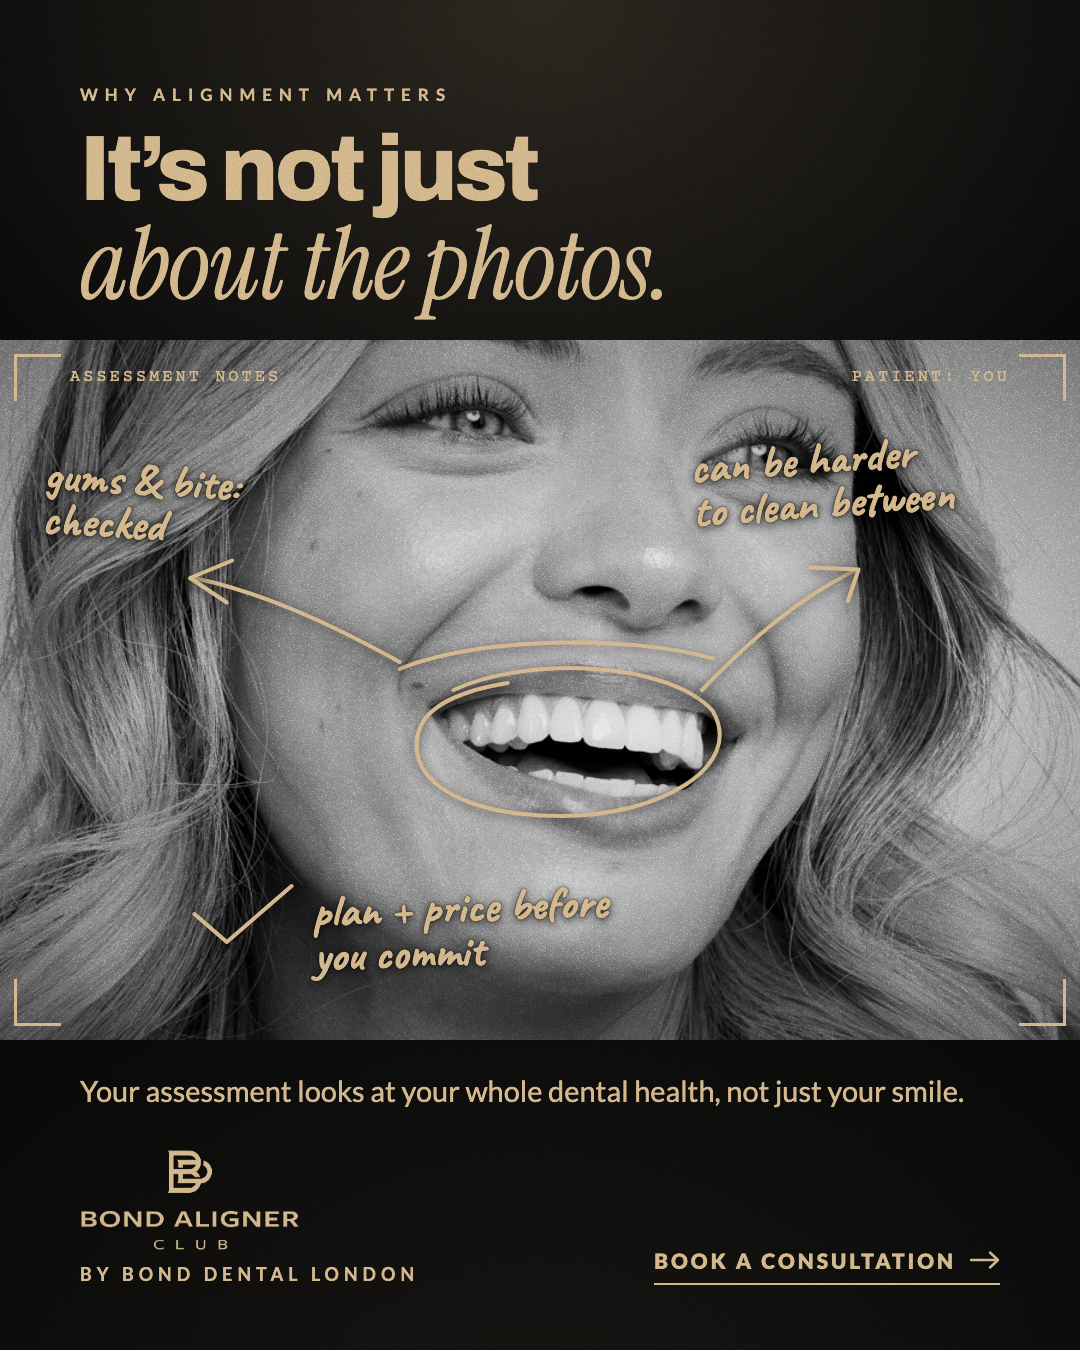
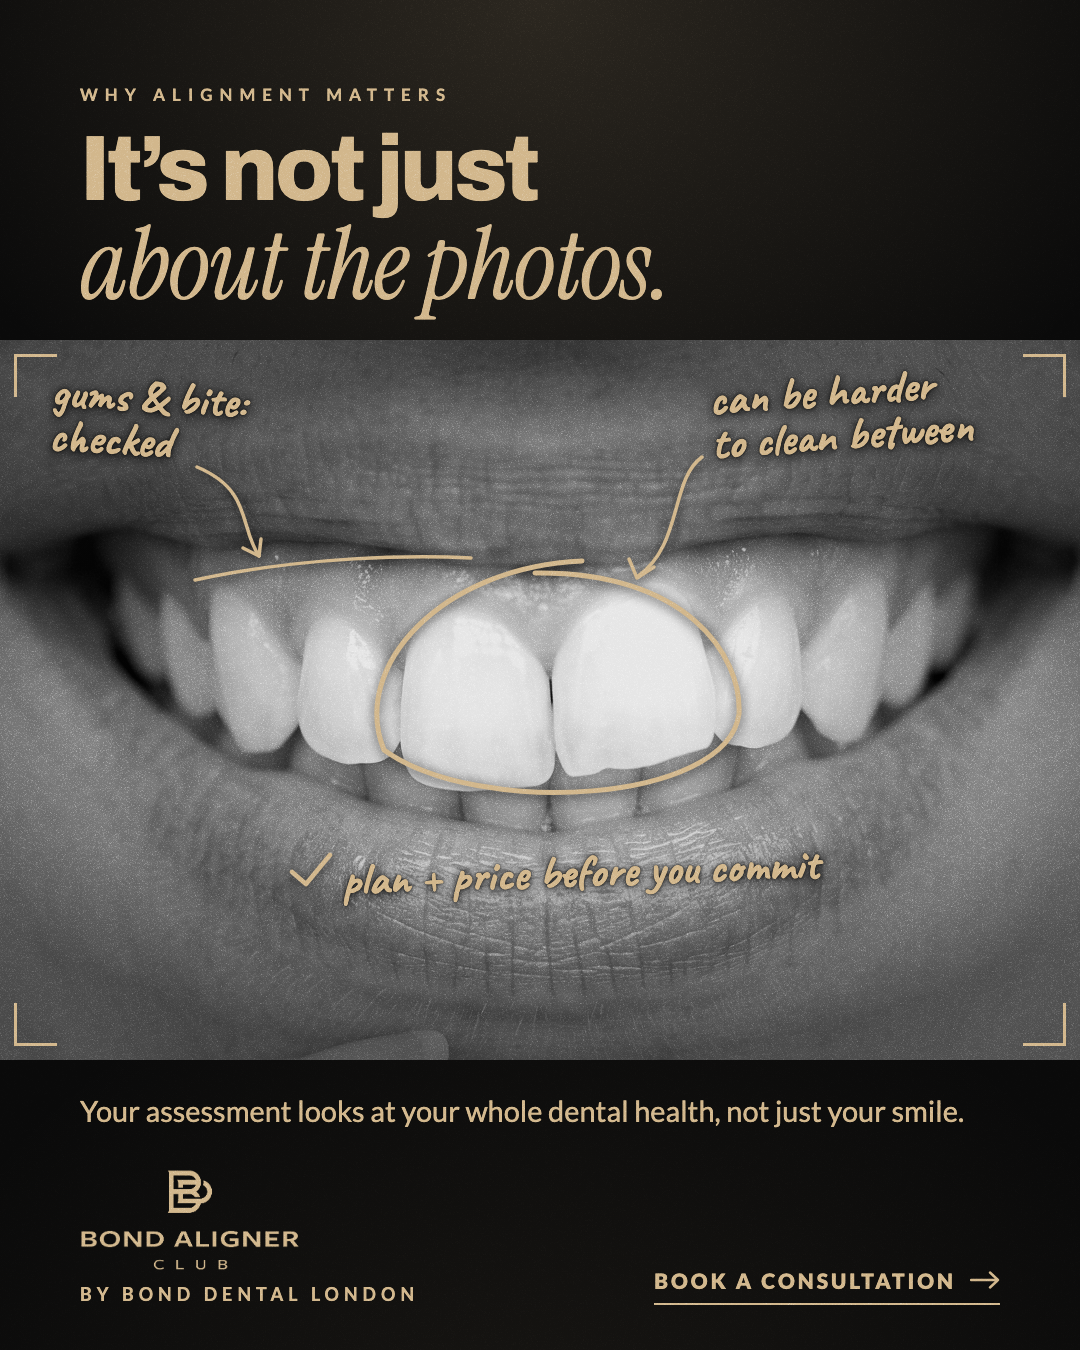
feat(creative): BAC-08 uses supplied crooked-teeth close-up, markup aligned to the teeth

diff --git a/outputs/creative/bond-aligner-club-meta-statics/v2/sec_b.py b/outputs/creative/bond-aligner-club-meta-statics/v2/sec_b.py
@@ -103,36 +103,56 @@ def note(text, left, top, size, rot, align='left', width=None):
 
 
 def bac08(f, w, h):
-    ph = v(f, 520, 700, 960)
+    # Source photo 1536x2752; teeth span x 300-1240, y 970-1220; crowded centrals ~x 620-960.
+    ph = v(f, 540, 720, 960)
+    k = v(f, 0.8, 0.92, 1.02)
+    cx, cy = 775, 1098
+    PW = w
+    mx = lambda sx: PW / 2 + (sx - cx) * k
+    my = lambda sy: ph / 2 + (sy - cy) * k
     ns = v(f, 40, 46, 52)
-    corner = lambda pos, bd: f'<div style="position: absolute; {pos} width: 44px; height: 44px; {bd}"></div>'
+    sh = 'text-shadow: 0 2px 12px rgba(10,10,10,0.95), 0 0 3px rgba(10,10,10,0.9);'
+    stroke = lambda d, sw=4.5: f'<path d="{d}" stroke="{GOLD}" stroke-width="{sw}" stroke-linecap="round" stroke-linejoin="round" fill="none"/>'
+    # ring around the overlapping front teeth
+    rcx, rcy, rx, ry = mx(790), my(1088), 205 * k, 128 * k
+    ring = stroke(f'M{rcx - rx * 0.1:.0f} {rcy - ry:.0f} C {rcx + rx * 0.7:.0f} {rcy - ry * 1.02:.0f}, {rcx + rx:.0f} {rcy - ry * 0.3:.0f}, {rcx + rx * 0.98:.0f} {rcy + ry * 0.2:.0f} '
+                  f'C {rcx + rx * 0.92:.0f} {rcy + ry * 0.95:.0f}, {rcx - rx * 0.4:.0f} {rcy + ry * 1.08:.0f}, {rcx - rx * 0.9:.0f} {rcy + ry * 0.5:.0f} '
+                  f'C {rcx - rx * 1.08:.0f} {rcy - ry * 0.2:.0f}, {rcx - rx * 0.6:.0f} {rcy - ry * 1.05:.0f}, {rcx + rx * 0.15:.0f} {rcy - ry * 1.1:.0f}', 5)
+    # gum-line bracket
+    gum = stroke(f'M{mx(400):.0f} {my(968):.0f} C {mx(520):.0f} {my(942):.0f}, {mx(640):.0f} {my(940):.0f}, {mx(700):.0f} {my(944):.0f}', 3.5)
+    top = v(f, 24, 30, 40)
+    # note 1 (top right) -> the overlap
+    n1x = mx(960)
+    n1 = (f'<div style="position: absolute; left: {n1x:.0f}px; top: {top}px; transform: rotate(-4deg); {HAND} font-weight: 700; font-size: {ns}px; '
+          f'line-height: 0.95; color: {GOLD}; white-space: nowrap; {sh}">can be harder<br>to clean between</div>')
+    a1 = stroke(f'M{n1x - 8:.0f} {top + ns * 1.9:.0f} C {n1x - 40:.0f} {top + ns * 2.4:.0f}, {mx(930):.0f} {my(930):.0f}, {mx(880):.0f} {rcy - ry + 4:.0f}', 3.5)
+    a1h = stroke(f'M{mx(880) - 8:.0f} {rcy - ry - 14:.0f} L {mx(880):.0f} {rcy - ry + 5:.0f} L {mx(880) + 17:.0f} {rcy - ry - 6:.0f}', 3.5)
+    # note 2 (top left) -> gum line
+    n2x = v(f, 40, 50, 56)
+    n2 = (f'<div style="position: absolute; left: {n2x}px; top: {top + 6}px; transform: rotate(3deg); {HAND} font-weight: 700; font-size: {ns}px; '
+          f'line-height: 0.95; color: {GOLD}; white-space: nowrap; {sh}">gums &amp; bite:<br>checked</div>')
+    g_end = (mx(470), my(950) - 8)
+    a2 = stroke(f'M{n2x + ns * 3.2:.0f} {top + ns * 2.1:.0f} C {n2x + ns * 4.4:.0f} {top + ns * 2.6:.0f}, {g_end[0] - 20:.0f} {g_end[1] - 30:.0f}, {g_end[0]:.0f} {g_end[1]:.0f}', 3.5)
+    a2h = stroke(f'M{g_end[0] - 16:.0f} {g_end[1] - 8:.0f} L {g_end[0]:.0f} {g_end[1]:.0f} L {g_end[0] + 2:.0f} {g_end[1] - 17:.0f}', 3.5)
+    # note 3 (under the teeth) with a tick
+    n3y = my(1262)
+    n3x = mx(560)
+    tickp = stroke(f'M{n3x - 50:.0f} {n3y + ns * 0.45:.0f} L {n3x - 36:.0f} {n3y + ns * 0.72:.0f} L {n3x - 12:.0f} {n3y + ns * 0.1:.0f}', 4.5)
+    n3 = (f'<div style="position: absolute; left: {n3x:.0f}px; top: {n3y:.0f}px; transform: rotate(-2deg); {HAND} font-weight: 700; font-size: {ns}px; '
+          f'line-height: 0.95; color: {GOLD}; white-space: nowrap; {sh}">plan + price before you commit</div>')
+    svg = (f'<svg width="{PW}" height="{ph}" viewBox="0 0 {PW} {ph}" aria-hidden="true" style="position: absolute; left: 0; top: 0; overflow: visible; '
+           f'filter: drop-shadow(0 2px 6px rgba(10,10,10,0.8));">{ring}{gum}{a1}{a1h}{a2}{a2h}{tickp}</svg>')
+    iw, ih = 1536 * k, 2752 * k
+    img = (f'<img src="{B["crooked"]}" alt="" style="position: absolute; left: {mx(0):.0f}px; top: {my(0):.0f}px; width: {iw:.0f}px; height: {ih:.0f}px; '
+           f'filter: grayscale(1) contrast(1.12) brightness(0.9);">')
     g = f'3px solid {GOLD}'
+    corner = lambda pos, bd: f'<div style="position: absolute; {pos} width: 40px; height: 40px; {bd}"></div>'
     corners = (corner('left: 14px; top: 14px;', f'border-left: {g}; border-top: {g};') + corner('right: 14px; top: 14px;', f'border-right: {g}; border-top: {g};')
                + corner('left: 14px; bottom: 14px;', f'border-left: {g}; border-bottom: {g};') + corner('right: 14px; bottom: 14px;', f'border-right: {g}; border-bottom: {g};'))
-    marks = (
-        # ring round the front teeth
-        mark_svg('M42 50 C 49 45, 62 46, 66 53 C 69 61, 61 68, 52 68 C 42 68, 37 62, 39 55 C 40 52, 43 50, 47 49')
-        # arrow from ring to note 1 (upper right)
-        + mark_svg('M65 50 C 70 42, 74 37, 79 33', '')
-        + mark_svg('M75 32.5 L 79.5 32.8 L 78.5 37.3')
-        # bracket along the gum line + arrow to note 2 (left)
-        + mark_svg('M37 47 C 44 42.5, 58 42, 66 45.5')
-        + mark_svg('M37 46 C 30 40, 24 36, 18 34')
-        + mark_svg('M21.5 31.5 L 17.6 34 L 21 37.5')
-        # tick for note 3
-        + mark_svg('M18 82 L 21 86 L 27 78')
-    )
-    n1 = note('can be harder<br>to clean between', v(f, 64, 64, 60), v(f, 10, 14, 15), ns, -4)
-    n2 = note('gums &amp; bite:<br>checked', v(f, 4, 4, 4), v(f, 14, 17, 18), ns, 3)
-    n3 = note('plan + price before<br>you commit', v(f, 29, 29, 29), v(f, 76, 78, 79), ns, -2)
-    photo = (f'<div style="height: {ph}px; flex-shrink: 0; position: relative; overflow: hidden; margin: 0 -{PAD[f][1]}px; background: #1a1a1a;">'
-             f'<img src="{B["smile"]}" alt="" style="position: absolute; left: 0; top: 0; width: 100%; height: 100%; object-fit: cover; '
-             f'object-position: 57% 55%; transform: scale({v(f, 2.1, 2.0, 2.2)}); transform-origin: 57% 56%; filter: grayscale(1) contrast(1.12) brightness(0.9);">'
-             f'<div style="position: absolute; left: 0; right: 0; top: 0; bottom: 0; background: radial-gradient(80% 70% at 50% 50%, rgba(10,10,10,0) 40%, rgba(10,10,10,0.55) 100%);"></div>'
-             + grain('light', 0.45, 'overlay') + corners
-             + f'<div style="position: absolute; left: 70px; top: 28px; {MONO} font-size: 17px; letter-spacing: 3px; color: {GOLD};">ASSESSMENT NOTES</div>'
-             + f'<div style="position: absolute; right: 70px; top: 28px; {MONO} font-size: 17px; letter-spacing: 3px; color: {GOLD};">PATIENT: YOU</div>'
-             + marks + n1 + n2 + n3 + '</div>')
+    photo = (f'<div style="height: {ph}px; flex-shrink: 0; position: relative; overflow: hidden; margin: 0 -{PAD[f][1]}px; background: #151515;">'
+             + img +
+             f'<div style="position: absolute; left: 0; right: 0; top: 0; bottom: 0; background: radial-gradient(62% 48% at 50% 52%, rgba(10,10,10,0) 38%, rgba(10,10,10,0.62) 100%);"></div>'
+             + grain('light', 0.4, 'overlay') + corners + svg + n1 + n2 + n3 + '</div>')
     content = (f'<div style="{BODY} font-size: 17px; font-weight: 700; letter-spacing: 7px; text-transform: uppercase; color: {GOLD};">Why alignment matters</div>'
                + spacer(v(f, 16, 22, 28))
                + two_line_head('gold', 'It’s not just', 'about the photos.', v(f, 80, 92, 104), v(f, 88, 100, 114))

diff --git a/outputs/creative/bond-aligner-club-meta-statics/v2/build.py b/outputs/creative/bond-aligner-club-meta-statics/v2/build.py
@@ -11,7 +11,7 @@ LOCAL = {
     B['lock_gold']: 'uploads/bac-lockup-gold.png', B['lock_black']: 'uploads/bac-lockup-black.png',
     B['mark_gold']: 'uploads/bac-mark-gold.png', B['mark_black']: 'uploads/bac-mark-black.png',
     B['lobby']: 'uploads/mayfair-lobby.jpg', B['grain_light']: 'uploads/grain-light.png',
-    B['grain_dark']: 'uploads/grain-dark.png', B['smile']: 'uploads/standin-smile.jpg', B['kev']: 'uploads/kev-patel.jpg',
+    B['grain_dark']: 'uploads/grain-dark.png', B['smile']: 'uploads/standin-smile.jpg', B['kev']: 'uploads/kev-patel.jpg', B['crooked']: 'uploads/crooked-smile.jpg',
 }
 CHROME = '/Applications/Google Chrome.app/Contents/MacOS/Google Chrome'
 os.makedirs(os.path.join(HERE, 'project'), exist_ok=True)

diff --git a/outputs/creative/bond-aligner-club-meta-statics/v2/lib2.py b/outputs/creative/bond-aligner-club-meta-statics/v2/lib2.py
@@ -11,6 +11,7 @@ B = {
     'grain_dark': '/_blob/57b1dd74897935b37c4eaf28dc52054d',
     'smile': '/_blob/ac6fc3d95e09da732e0848aa5fb8f1ab',
     'kev': '/_blob/9b3e632e9855cb4cb0c49649b8a65138',
+    'crooked': '/_blob/e331637b6ad4bb9c6b526ce01054e260',
 }
 FONTS = ('https://fonts.googleapis.com/css2?family=Archivo:ital,wdth,wght@0,62..125,100..900;1,62..125,100..900'
          '&amp;family=Instrument+Serif:ital@0;1&amp;family=Caveat:wght@500;700'
